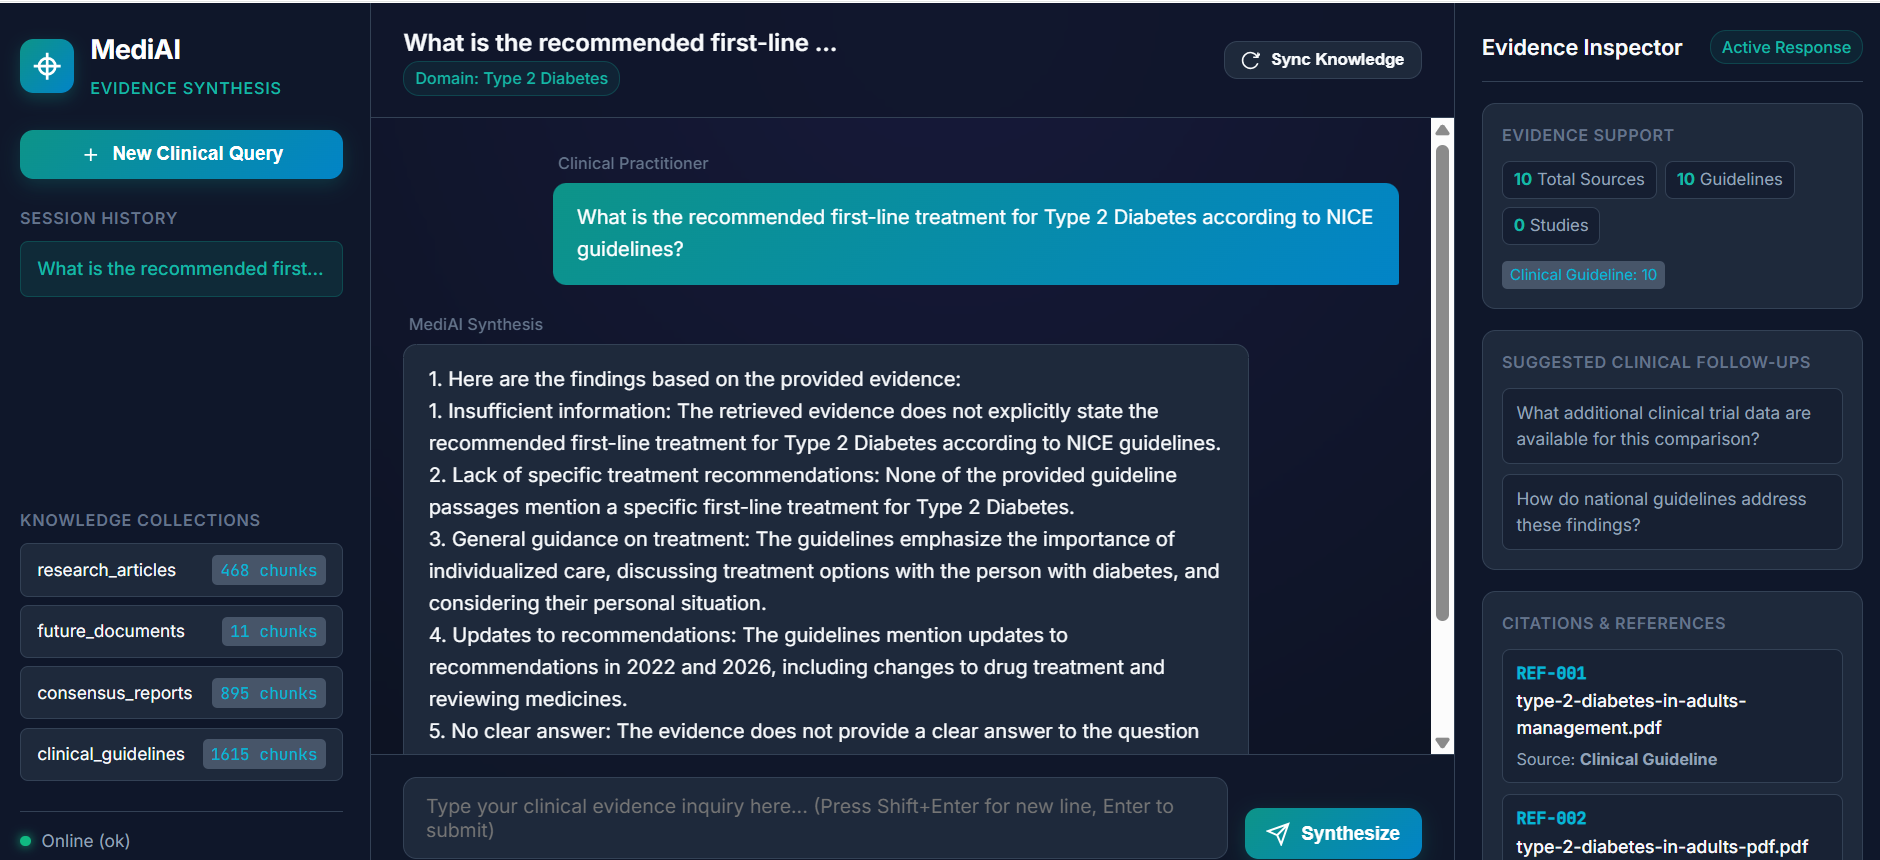
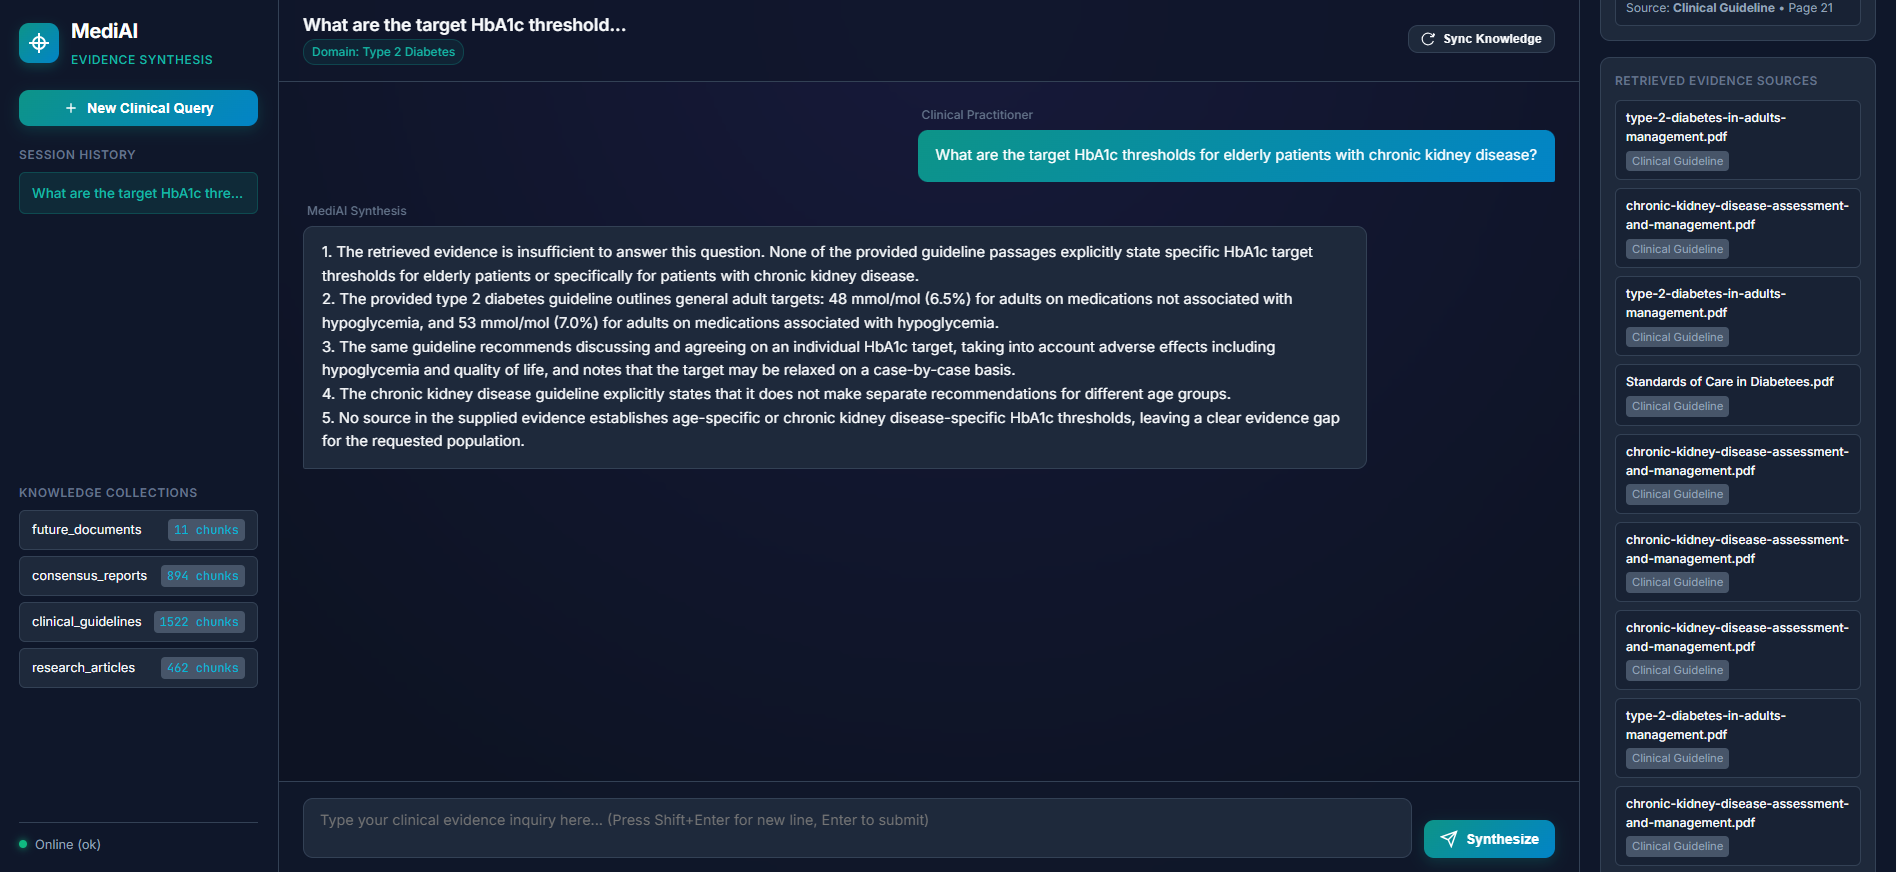
commit

Changed region(s): [[0.0, 0.0, 1.0, 1.0], [0.6479, 0.0605, 0.7404, 0.0907], [0.0, 0.9674, 0.0617, 0.9977]]

diff --git a/app/agents/clinical_summary_agent.py b/app/agents/clinical_summary_agent.py
@@ -155,15 +155,15 @@ def run_clinical_summary(state: ClinicalState) -> dict:
 
     response = llm.invoke(messages)
     raw = response.content.strip()
-
-    if raw.startswith("```"):
-        raw = raw.split("```")[1]
-        if raw.startswith("json"):
-            raw = raw[4:]
-        raw = raw.strip()
+    import re
+    # 1. Remove <think> reasoning blocks
+    raw_cleaned = re.sub(r"<think>.*?</think>", "", raw, flags=re.DOTALL | re.IGNORECASE).strip()
+    # 2. Extract JSON object {...}
+    json_match = re.search(r"\{.*\}", raw_cleaned, re.DOTALL)
+    json_str = json_match.group(0) if json_match else raw_cleaned
 
     try:
-        data = json.loads(raw, strict=False)
+        data = json.loads(json_str, strict=False)
         final_response = _build_response(data, evidence_support, prog_citations, prog_sources)
     except (json.JSONDecodeError, TypeError, ValueError) as exc:
         logger.warning(
@@ -179,17 +179,23 @@ def run_clinical_summary(state: ClinicalState) -> dict:
 
 
 def _clean_summary_text(text: str) -> str:
-    """Clean summary text by stripping inline REF tags and internal debug metadata strings to ensure a clean natural language output."""
+    """Clean summary text by stripping <think> blocks, inline REF tags, and internal debug metadata strings."""
     if not text:
         return ""
     import re
-    cleaned = text.replace("**", "").replace("__", "")
-    # Remove inline [REF-xxx] tags
+    # 1. Remove complete <think>...</think> blocks
+    cleaned = re.sub(r"<think>.*?</think>", "", text, flags=re.DOTALL | re.IGNORECASE)
+    # 2. Remove standalone <think> or </think> tags
+    cleaned = re.sub(r"</?think>", "", cleaned, flags=re.IGNORECASE)
+    cleaned = cleaned.replace("**", "").replace("__", "")
+    # 3. Remove inline [REF-xxx] tags
     cleaned = re.sub(r"\[REF-\d+\]", "", cleaned, flags=re.IGNORECASE)
-    # Remove debug metadata strings like (source: rank 1, PMID: unavailable; PDF reference: ...)
+    # 4. Remove debug metadata strings
     cleaned = re.sub(r"\s*\(\s*(source|rank|PMID|PDF reference|collection):.*?\)", "", cleaned, flags=re.IGNORECASE)
-    # Remove standalone debug labels
     cleaned = re.sub(r"(?i)\b(PMID:\s*unavailable|PDF reference:\s*[\w.-]+|source:\s*rank\s*\d+)\b", "", cleaned)
+    # 5. Remove "Here's a thinking process:" lines
+    cleaned = re.sub(r"(?i)^.*here'?s a thinking process.*$", "", cleaned, flags=re.MULTILINE)
+    
     # Clean multiple spaces and return
     lines = [re.sub(r"\s+", " ", l).strip() for l in cleaned.split("\n")]
     return "\n".join([l for l in lines if l])

diff --git a/app/rag/vectorstore.py b/app/rag/vectorstore.py
@@ -28,6 +28,8 @@ from app.rag.embedder import embed_query, embed_texts
 
 logger = logging.getLogger(__name__)
 
+#  Similarity Threshold Filter - to throw away non-matching chunks. 
+MIN_SCORE_THRESHOLD = 0.50 # Minimum score to be considered relevant
 
 # ── Client factory ───────────────────────────────────────────────────────────
 
@@ -118,6 +120,7 @@ def similarity_search(
     collection_name: str,
     query: str,
     n_results: int = 5,
+    min_score:float = MIN_SCORE_THRESHOLD, # filters out low relevance noise
 ) -> list[dict]:
     """
     Retrieve the top-k most similar chunks for a query.
@@ -145,16 +148,17 @@ def similarity_search(
     for chunk_id, doc, meta, dist in zip(ids, documents, metadatas, distances):
         # Chroma cosine distance → similarity score (1 - distance)
         score = max(0.0, 1.0 - dist)
-        chunks.append(
-            {
-                "chunk_id": chunk_id,
-                "text": doc,
-                "source_pdf": meta.get("source_pdf", ""),
-                "page_number": meta.get("page_number"),
-                "collection": meta.get("collection", collection_name),
-                "score": round(score, 4),
-            }
-        )
+        if score >= min_score:  # Only accept reasonably matching chunks
+            chunks.append(
+                {
+                    "chunk_id": chunk_id,
+                    "text": doc,
+                    "source_pdf": meta.get("source_pdf", ""),
+                    "page_number": meta.get("page_number"),
+                    "collection": meta.get("collection", collection_name),
+                    "score": round(score, 4),
+                }
+            )
 
     return chunks
 

diff --git a/app/agents/clinical_reasoning_agent.py b/app/agents/clinical_reasoning_agent.py
@@ -21,18 +21,16 @@ logger = logging.getLogger(__name__)
 
 
 def _format_ranked_evidence(ranked_evidence: list[RankedEvidence]) -> str:
-    """Serialise classified evidence for the LLM prompt.
-       It takes every single item from ranked_evidence (both Guidelines and PubMed articles) and serializes them into JSON.    
-    """
+    """Serialise top classified evidence items for the LLM prompt."""
     items = []
-    for item in ranked_evidence:
-        items.append(
+    for item in ranked_evidence[:12]:  # Top 12 items max to fit within LLM context / TPM limits. Limited prompt payload to the top 12 highest-ranked evidence items.
+        items.append(   
             {
                 "rank": item.rank,
                 "evidence_type": item.evidence_type,
                 "source_type": item.source_type,
                 "title": item.title,
-                "text": item.text[:3000],  # allow full chunk text
+                "text": item.text[:1000],  # Truncate to top 1000 characters per chunk
                 "source_ref": item.source_ref,
                 "collection": item.collection,
             }
@@ -86,7 +84,13 @@ def run_clinical_reasoning(state: ClinicalState) -> dict:
     ]
 
     response = llm.invoke(messages)
-    reasoning = response.content.strip()
+    raw_reasoning = response.content.strip()
+
+    import re
+    # Remove any <think>...</think> blocks generated by reasoning models
+    reasoning = re.sub(r"<think>.*?</think>", "", raw_reasoning, flags=re.DOTALL | re.IGNORECASE).strip()
+    # Remove standalone <think> or </think> tags
+    reasoning = re.sub(r"</?think>", "", reasoning, flags=re.IGNORECASE).strip()
 
     logger.info(
         "[ClinicalReasoningAgent] Reasoning produced (%d chars)", len(reasoning)

diff --git a/app/llm/factory.py b/app/llm/factory.py
@@ -47,7 +47,7 @@ class ResilientChatModel(BaseChatModel):
     def with_structured_output(self, schema: Any, **kwargs: Any) -> Any:
         """Delegate structured output binding directly to the primary LLM provider."""
         if "method" not in kwargs and self.provider_name in ("groq", "ollama", "open_source"):
-            kwargs["method"] = "function_calling"
+            kwargs["method"] = "json_mode"
         return self.primary_llm.with_structured_output(schema, **kwargs)
 
 
@@ -73,6 +73,12 @@ class ResilientChatModel(BaseChatModel):
                 response_message = self.primary_llm.invoke(
                     messages, stop=stop, config=config, **kwargs
                 )
+                if isinstance(response_message.content, str) and "<think>" in response_message.content.lower(): # Clean <think> tags at the LLM Factory level
+                    import re
+                    response_message.content = re.sub(
+                        r"<think>.*?</think>", "", response_message.content, flags=re.DOTALL | re.IGNORECASE
+                    ).strip()
+
                 return ChatResult(
                     generations=[ChatGeneration(message=response_message)]
                 )
@@ -83,8 +89,11 @@ class ResilientChatModel(BaseChatModel):
                     for err in [
                     # Rate limiting / temporary throttling
                     "429",
+                    "413",
                     "rate_limit",
+                    "ratelimitexceeded",
                     "resource_exhausted",
+                    "tpm",
 
                     # Temporary server errors
                     "500",

diff --git a/app/agents/planner_agent.py b/app/agents/planner_agent.py
@@ -63,15 +63,15 @@ def run_planner(state: ClinicalState) -> dict:
     response = llm.invoke(messages)
     raw = response.content.strip()
 
-    # Strip markdown code fences
-    if raw.startswith("```"):
-        raw = raw.split("```")[1]
-        if raw.startswith("json"):
-            raw = raw[4:]
-        raw = raw.strip()
+    import re
+    # 1. Remove <think> reasoning blocks
+    raw_cleaned = re.sub(r"<think>.*?</think>", "", raw, flags=re.DOTALL | re.IGNORECASE).strip()
+    # 2. Extract JSON object {...}
+    json_match = re.search(r"\{.*\}", raw_cleaned, re.DOTALL)
+    json_str = json_match.group(0) if json_match else raw_cleaned
 
     try:
-        data = json.loads(raw)
+        data = json.loads(json_str, strict=False)
         plan = PlannerOutput(**data)
     except (json.JSONDecodeError, TypeError, ValueError) as exc:
         logger.warning("[PlannerAgent] Could not parse plan — using fallback. Error: %s", exc)

diff --git a/app/agents/reflection_agent.py b/app/agents/reflection_agent.py
@@ -65,15 +65,15 @@ def run_reflection(state: ClinicalState) -> dict:
 
     response = llm.invoke(messages)
     raw = response.content.strip()
-
-    if raw.startswith("```"):
-        raw = raw.split("```")[1]
-        if raw.startswith("json"):
-            raw = raw[4:]
-        raw = raw.strip()
+    import re
+    # 1. Remove <think> reasoning blocks
+    raw_cleaned = re.sub(r"<think>.*?</think>", "", raw, flags=re.DOTALL | re.IGNORECASE).strip()
+    # 2. Extract JSON object {...}
+    json_match = re.search(r"\{.*\}", raw_cleaned, re.DOTALL)
+    json_str = json_match.group(0) if json_match else raw_cleaned
 
     try:
-        data = json.loads(raw)
+        data = json.loads(json_str, strict=False)
         decision = data.get("decision", "CONTINUE").upper()
         reason = data.get("reason", "")
         issues = data.get("issues_detected", [])

diff --git a/app/agents/guardrail_agent.py b/app/agents/guardrail_agent.py
@@ -38,10 +38,14 @@ def run_guardrail(state: ClinicalState) -> dict:
 
     try:
         llm = get_llm(temperature=0.0)
-        structured_llm = llm.with_structured_output(GuardrailDecision)
+        structured_llm = llm.with_structured_output(GuardrailDecision, method="json_mode")
 
         messages = [
-            SystemMessage(content=GUARDRAIL_SYSTEM_PROMPT),
+            SystemMessage(
+                content=GUARDRAIL_SYSTEM_PROMPT
+                + "\n\nRespond strictly with JSON matching this schema:\n"
+                '{"is_safe": bool, "reason": str|null, "message": str|null}'
+            ),
             HumanMessage(content=f"Query to evaluate:\n\n{query}"),
         ]
 

diff --git a/app/graph/state.py b/app/graph/state.py
@@ -97,6 +97,9 @@ class PlannerOutput(BaseModel):
     reasoning: str
 
 
+from pydantic import BaseModel, Field, field_validator
+
+
 class GuardrailDecision(BaseModel):
     """Structured decision output from the Guardrail Agent."""
 
@@ -111,6 +114,13 @@ class GuardrailDecision(BaseModel):
         default=None,
         description="User-facing explanation if unsafe.",
     )
+
+    @field_validator("is_safe", mode="before")
+    @classmethod
+    def parse_is_safe(cls, v: Any) -> bool:
+        if isinstance(v, str):
+            return v.strip().lower() in ("true", "1", "yes")
+        return bool(v)
 
 
 class SafetyResponse(BaseModel):

diff --git a/README.md b/README.md
@@ -124,17 +124,20 @@ Persists session context across multi-turn clinical conversations, allowing clin
 
 ---
 
-## ⚡ Performance Optimization: Groq vs. Ollama
+## ⚡ Performance Optimization & LLM Provider Setup
 
-While local models via Ollama are supported for offline privacy, **inference latency is dramatically better with Groq** (`llama-3.3-70b-versatile`). It significantly reduced LLM inference latency compared with the local Ollama setup, making the multi-agent system much more responsive.
+While local models via Ollama are supported for offline privacy, **inference latency is dramatically better with Groq** using modern open-weights models such as `qwen/qwen3.6-27b`. It significantly reduces LLM inference latency compared with a local setup, making the multi-agent system much more responsive.
 
 To use Groq, configure your `.env`:
 
 ```env
 LLM_PROVIDER=groq
-LLM_MODEL=llama-3.3-70b-versatile
+LLM_MODEL=qwen/qwen3.6-27b
 GROQ_API_KEY=your_groq_api_key
 ```
+
+> **Note on Model Availability & Deprecations:**  
+> Cloud providers (like Groq, OpenAI, or Google GenAI) periodically deprecate or rename model endpoints (e.g. `llama-3.3-70b-versatile` or preview checkpoints). If you encounter a `404 model_not_found` error, check your provider's model catalog (e.g., [Groq Models Console](https://console.groq.com/docs/models)) and update `LLM_MODEL` in your `.env` file to an active supported model.
 
 ---
 
@@ -252,6 +255,13 @@ uvicorn app.main:app --reload --host 0.0.0.0 --port 8000
 ### Blocked by Guardrail
 
 ![Blocked by Guardrail](images/Guardrial.png)
+
+*Demonstration of Guardrail discrimination: The system allows clinical scenario requests for published guidelines while blocking direct requests for personalized medical advice.*
+
+---
+
+> **Clinical Safety Design (Fail-Closed Pattern):**  
+> The Guardrail Agent implements a strict *Fail-Closed* architecture. It distinguishes between evidence-based guideline queries (allowed) and personalized patient treatment requests (blocked). If a network glitch or evaluation error occurs during safety checks, the query is safely blocked rather than bypassing safety evaluation. Unchecked queries never bypass safety gates which is compliant with medical safety.
 
 ---
 
